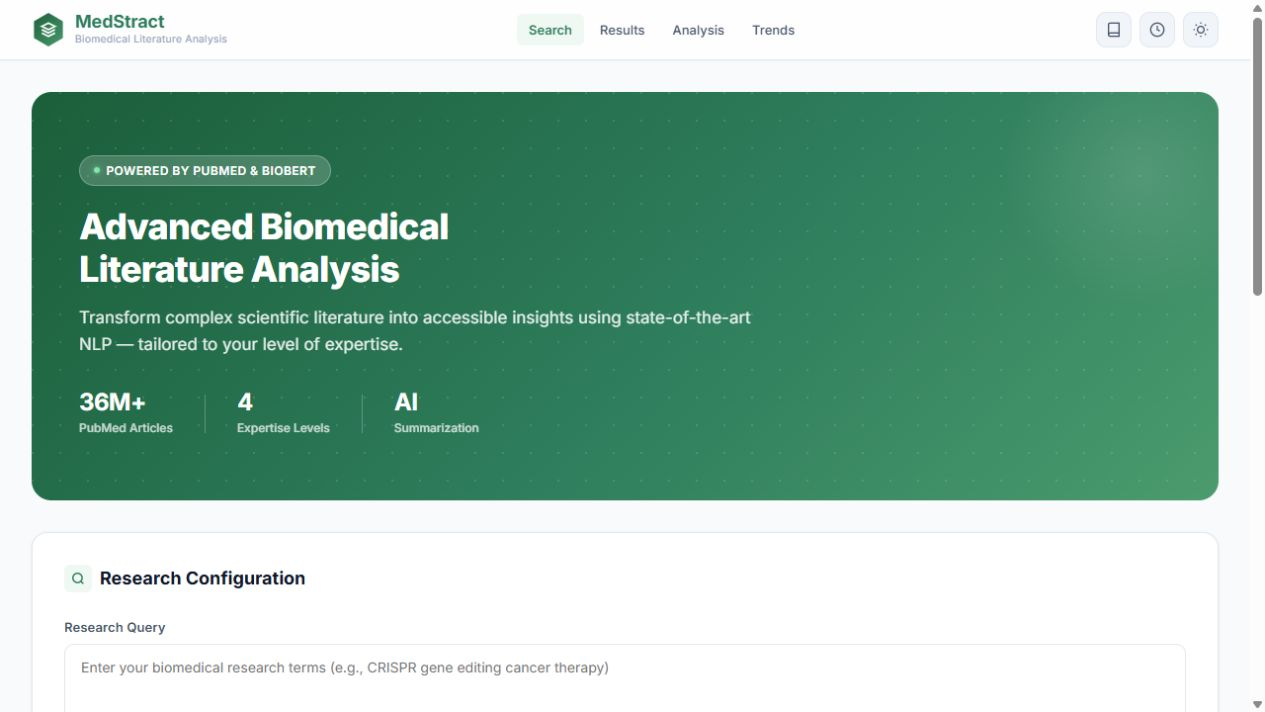
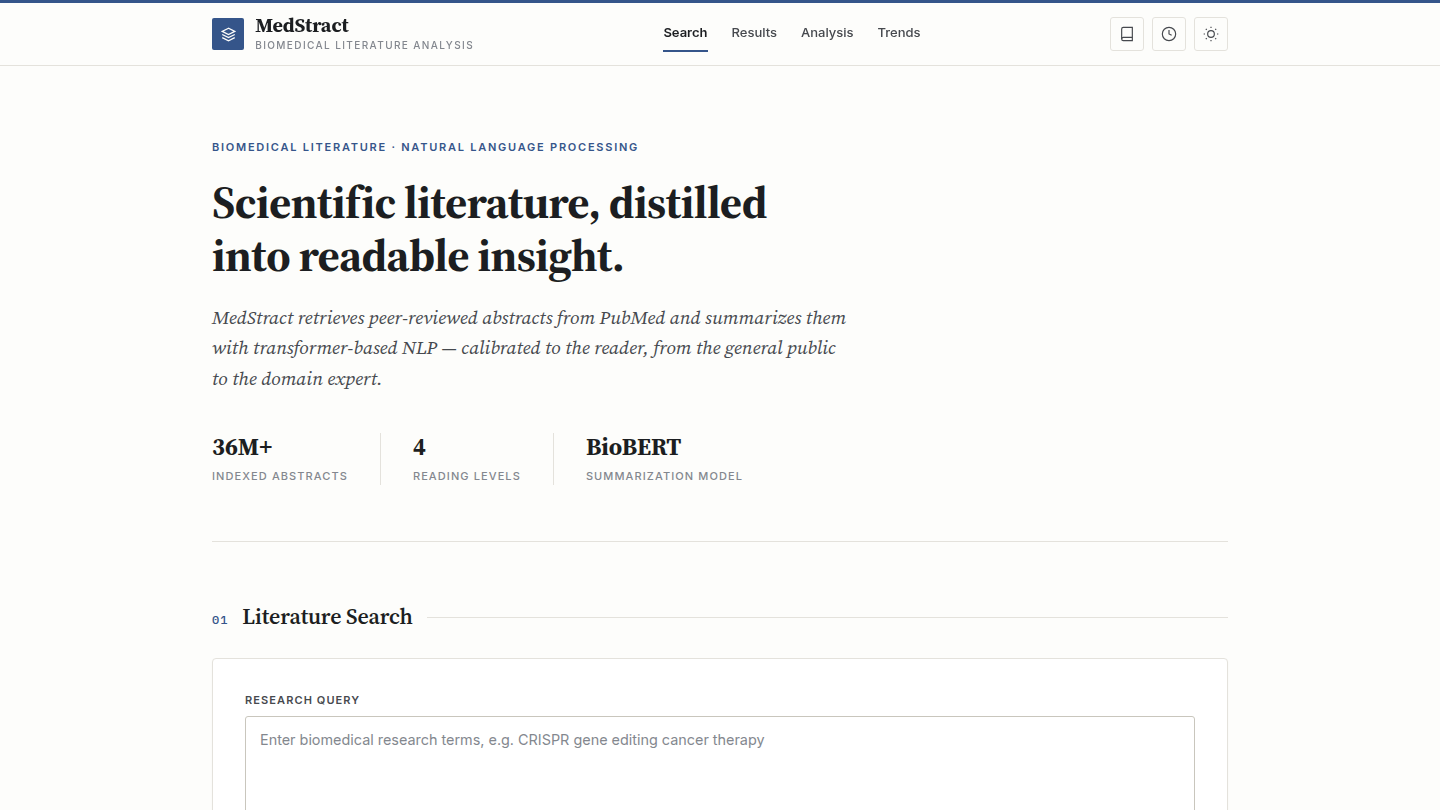
Update MedStract description and screenshot

diff --git a/index.html b/index.html
@@ -105,7 +105,7 @@
         <article class="project-card"><img src="images/projects/neural-net-mapper.gif" alt="Animated map of an MLP learning to classify shapes, showing activations, weights, and dropout" loading="lazy"><div><p class="project-kicker">PyTorch · Matplotlib · Visualization</p><h3>Neural Net Mapper</h3><p>Trains an MLP on a synthetic shapes dataset and renders an animated map of its inner workings: neuron activations, weight signs and magnitudes, dropout, predictions, and live loss and accuracy curves.</p><a href="https://github.com/imjbassi/neural-net-mapper">GitHub →</a></div></article>
         <article class="project-card"><img src="images/projects/adversarial-visualizer.gif" alt="PGD attack collapsing a corgi prediction in the Adversarial Attack Visualizer" loading="lazy"><div><p class="project-kicker">PyTorch · Adversarial ML · GUI</p><h3>Adversarial Attack Visualizer</h3><p>An interactive GUI for running FGSM, PGD, DeepFool, and Carlini and Wagner attacks against a pretrained ImageNet ResNet-18, with live perturbation panels, top-5 predictions, per-iteration confidence, and attack-surface sweeps.</p><a href="https://github.com/imjbassi/adversarial-visualizer">GitHub →</a></div></article>
         <article class="project-card"><img src="images/articles/can-bus-faults.png" alt="CAN bus fault diagnostics rig" loading="lazy"><div><p class="project-kicker">Article · CAN bus · Diagnostics</p><h3>Simulating Real Robot Failures on a Breadboard</h3><p>A three node CAN bus built to induce and diagnose failures that software logs alone cannot explain.</p><div class="card-links"><a href="https://github.com/imjbassi/can-bus-fault-injector">GitHub →</a><a href="https://imjbassi.medium.com/simulating-real-robot-failures-a3c62fbfc62d">Read on Medium →</a></div></div></article>
-        <article class="project-card"><img src="images/projects/medstract-live.png" alt="Live MedStract biomedical literature analysis homepage" loading="lazy"><div><p class="project-kicker">Python · PubMed · NLP</p><h3>MedStract</h3><p>A biomedical literature tool for searching PubMed, rewriting summaries for different audiences, exporting citations, and generating PDFs.</p><a href="https://medstract.net">Live site →</a></div></article>
+        <article class="project-card"><img src="images/projects/medstract-live.png" alt="MedStract homepage with PubMed literature search" loading="lazy"><div><p class="project-kicker">Flask · PubMed · NLP</p><h3>MedStract</h3><p>Retrieves peer-reviewed abstracts from PubMed and turns them into summaries calibrated to four reading levels, from the general public to the domain expert, with question answering over the results, publication-trend charts, and citation exports in six formats.</p><a href="https://medstract.net">Live site →</a></div></article>
         <article class="project-card"><img src="images/projects/castline-studio.jpg" alt="Castline Studio order interface" loading="lazy"><div><p class="project-kicker">Next.js · TypeScript · WebAssembly</p><h3>Castline Studio Order System</h3><p>An e commerce workflow with client side STL analysis, Etsy and shipping integrations, automated email, and deployment on Vercel.</p><a href="https://castline.studio">Live site →</a></div></article>
       </div>
     </section>
